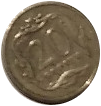
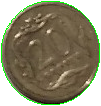
Add monochromatic coin detection

diff --git a/models.py b/models.py
@@ -5,7 +5,7 @@ import numpy as np
 from skimage import measure, io, exposure, color
 
 from utils import distance_between_points, draw_contour, biggest_contour, biggest_region, calculate_distances_from_centroid, calculate_perimeter_from_contour, calculate_avg_color_int
-from utils import calculate_avg_color_float, calculate_silver_percentage
+from utils import calculate_avg_color_float, calculate_silver_percentage, calculate_color_difference
 
 
 class DecisionTree:
@@ -16,7 +16,7 @@ class DecisionTree:
 
     def solve(self):
         self.prepare_items()
-        self.prepare_silver_levels()
+        self.prepare_color_differences()
         self.classify_items()
         self.classify_unsure_items()
         score = self.calculate_score()
@@ -29,27 +29,28 @@ class DecisionTree:
                 if item.is_coin():
                     item.coin = True
 
-    def prepare_silver_levels(self):
-        silver_levels = []
+    def prepare_color_differences(self):
+        color_diffs = []
         for item in self.items:
             if not item.coin:
                 continue
-            silver_level = calculate_silver_percentage(item.img)
-            item.silver_level = silver_level
-            if silver_level < 1.0:
-                silver_levels.append(silver_level)
+            color_diff = calculate_color_difference(item.img)
+            item.color_diff = color_diff
+            if color_diff > 100:
+                color_diffs.append(color_diff)
 
-        if silver_levels:
-            max_silver_level = max(silver_levels)
-            min_silver_level = min(silver_levels)
-            # middle_silver_level = (max_silver_level + min_silver_level) / 2
-            middle_silver_level = min(sum(silver_levels)/len(silver_levels), (min_silver_level+max_silver_level)/2)
-            middle_silver_level += (max_silver_level/min_silver_level/100)
-            # if max_silver_level - min_silver_level <= 0.04:
-            #     middle_silver_level -= 0.002
-            print("Middle silver level: " + str(middle_silver_level))
-            for item in self.items:
-                item.middle_silver_level = middle_silver_level
+        if color_diffs:
+            color_diff_border = sum(color_diffs) / len(color_diffs)
+            diff_from_border = sum(([abs(color_diff_border - x) for x in color_diffs]))
+            parameter = diff_from_border / color_diff_border / len(color_diffs)
+            if parameter < 0.2:
+                # TODO: w tym miejscu mamy pewnosc, ze albo sa tylko monochromatyczne, albo, ze sa tylko 2 i 5 zlotowki
+                for item in self.items:
+                    item.color_diff_border = 0
+                    item.color_diff = 0
+            else:
+                for item in self.items:
+                    item.color_diff_border = color_diff_border
 
     def classify_items(self):
         for item in self.items:
@@ -81,8 +82,8 @@ class DecisionTree:
 class Item:
     def __init__(self, img):
         self.img = img
-        self.middle_silver_level = 0
-        self.silver_level = 0
+        self.color_diff = 0
+        self.color_diff_border = 0
         self.circle = False
         self.coin = False
         self.contour = biggest_contour(img)
@@ -156,8 +157,8 @@ class Item:
                 return True
         return False
 
-    def is_silver_coin(self):
-        if self.silver_level >= self.middle_silver_level:
+    def is_monochromatic(self):
+        if self.color_diff != 0 and self.color_diff_border != 0 and self.color_diff <= self.color_diff_border:
             return True
         else:
             return False
@@ -168,10 +169,21 @@ class Item:
             return Type.REJECTED
         if self.circle:
             if self.coin:
-                if self.is_silver_coin():
+                if self.is_monochromatic():
+                    # TODO: tutaj mamy pewnosc, ze jest to albo 20gr, albo 50gr, albo 1zl
                     draw_contour(self.img, self.contour)
                     self.value = 1
                     return Type.ONE_PLN
+                else:
+
+                    if self.color_diff_border == 0 and self.color_diff == 0:
+                        # TODO: tutaj albo wszystkie monety sa monochromatyczne, albo niemonochromatyczne
+                        self.value = 0
+                        return Type.UNSURE
+                    else:
+                        # TODO: tutaj dana moneta jest niemonochromatyczna (2 lub 5 zl)
+                        print(self.size)
+                        pass
             else:
                 self.value = 0
                 return Type.REJECTED
@@ -210,6 +222,8 @@ class Type(Enum):
     UNSURE = 0
     TWENTY_GROSS = 0.20
     FIFTY_GROSS = 0.50
+    MONOCHROMATIC_COIN = 170
+    NOT_MONOCHROMATIC_COIN = 520
     ONE_PLN = 1
     TWO_PLN = 2
     FIVE_PLN = 5

diff --git a/utils.py b/utils.py
@@ -154,6 +154,28 @@ def calculate_silver_percentage(img):
     return silver_count / all_count
 
 
+def is_pixel_grayscale(pixel):
+    red = pixel[0]
+    green = pixel[1]
+    blue = pixel[2]
+    if abs(red - green) <= 10 and abs(red - green) <= 10:
+        # if red == green == blue:
+        return True
+    else:
+        return False
+
+
+def calculate_color_difference(img):
+    differences = []
+    for element in img.tolist():
+        for pixel in element:
+            rgb = pixel[:3]
+            maxim = max(rgb)
+            for color in rgb:
+                differences.append(maxim-color)
+    return sum(differences)
+
+
 def sk2cv_contours(sk_contours):
     cv_contours = []
     for sk_contour in sk_contours:
